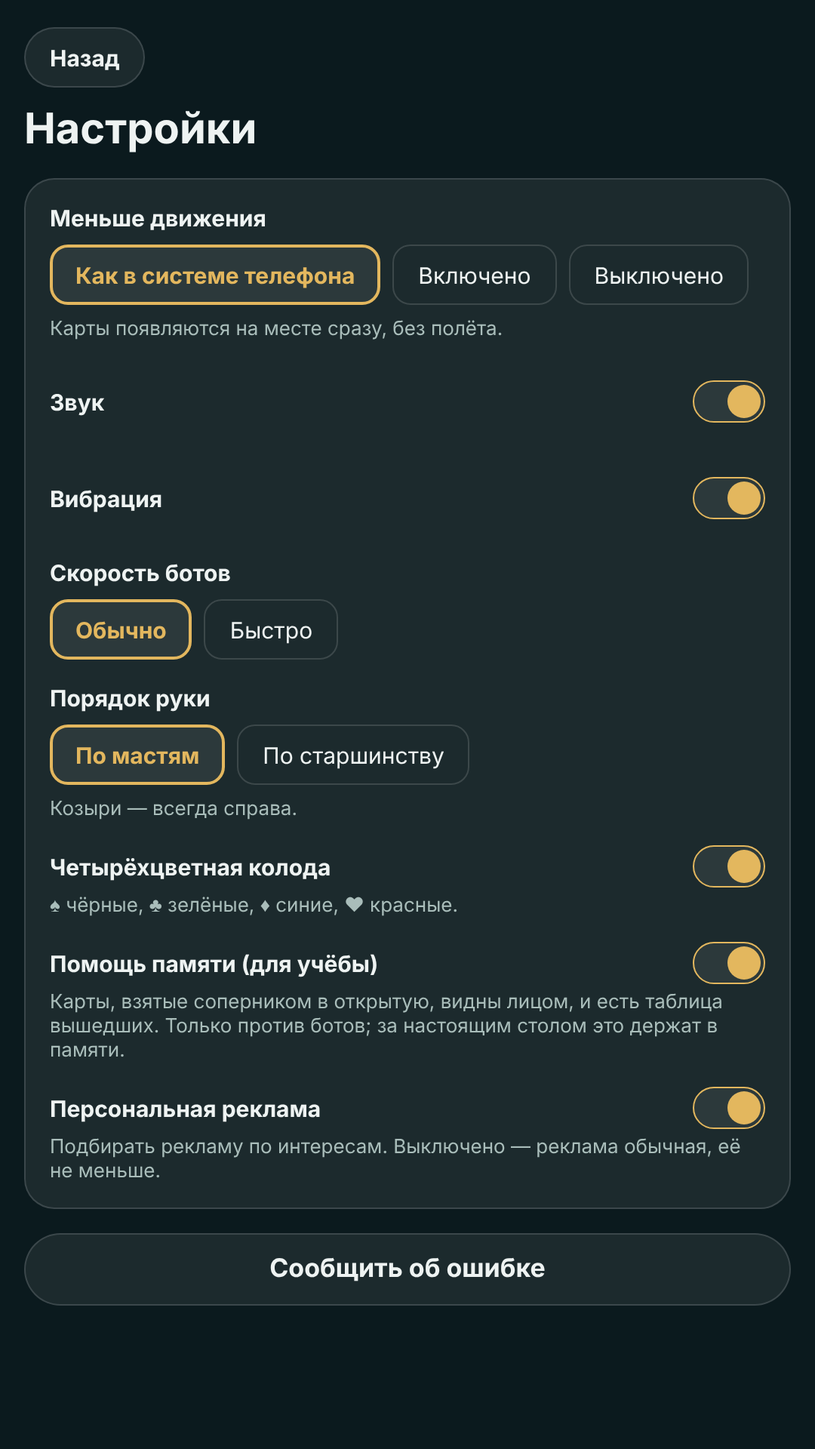
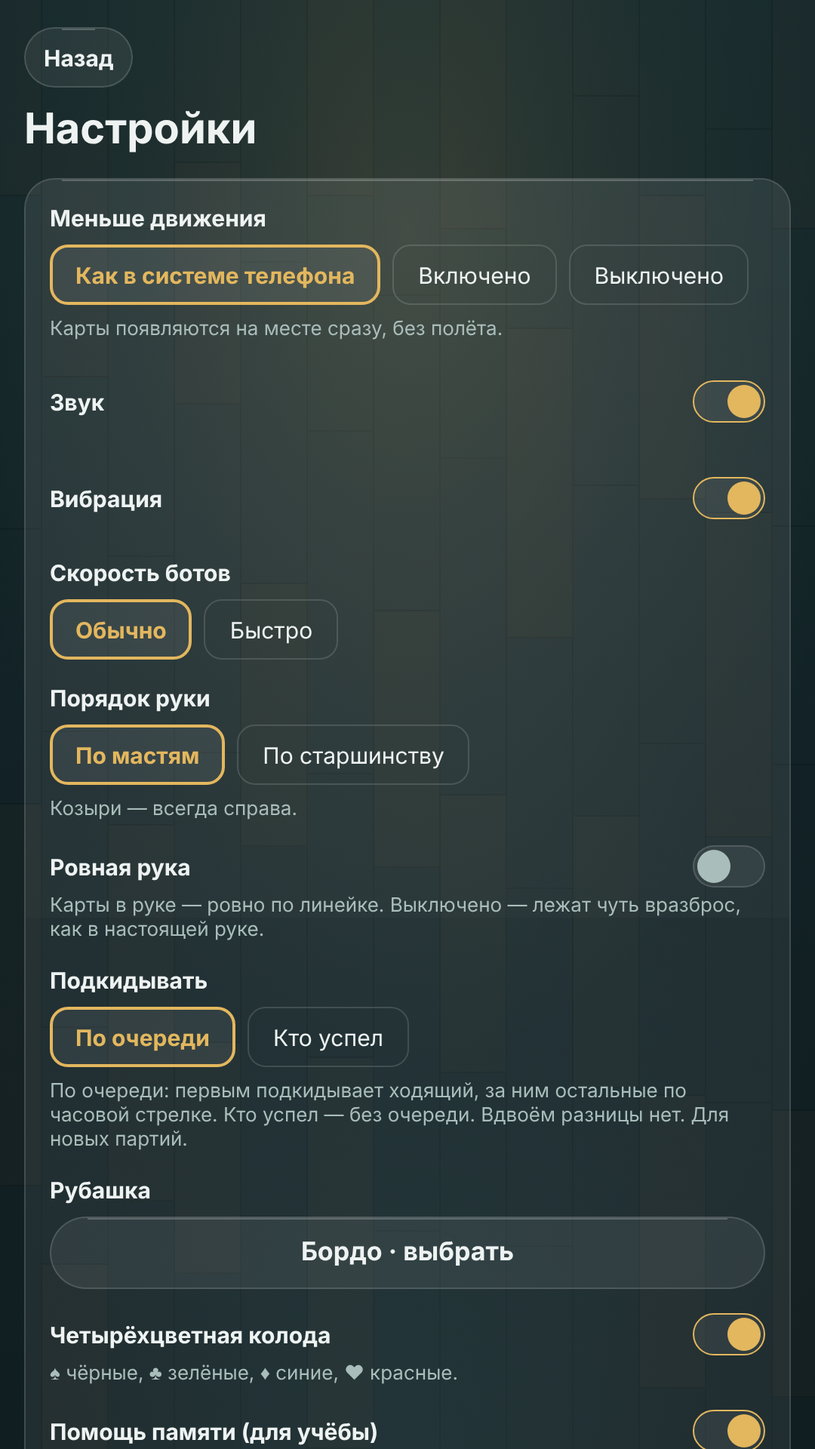
Третий круг вида: документы, листы «до — после», снимки магазина
docs/design/2026-11-art-3/ — листы колоды (обычная и четырёхцветная, с рубашками), стола, комнаты и экрана
«Рубашки», кадры 412 и 360 dp, проходы по лицам. Лист стиля — кадры круга 3 на одобрение владельца.
11-money.md, 04-data-model.md, 06-testing.md, 02-architecture.md, AGENTS.md — как сделаны рубашки и примерка;
store/forms.md — восемь товаров рубашек для консоли RuStore Pay; STATUS.md — что ждёт владельца;
README «Следующая версия» и журнал. Снимки магазина пересняты: на прежних был вид до первого круга.
tools/design/flow.ts — касания с коротким пределом ожидания (прогон зависал на 30-секундных ожиданиях кнопки).

Проверки: typecheck и lint чисто; модульные 310/310; сценарий в браузере 180 ✓; надписи 62 × 2 без обрезки;
проход по виду — 21 снимок, 0 ошибок консоли; онлайн-сценарий 49 ✓.

Claude-Session: https://claude.ai/code/session_013TkbiXwSbkfdZ3SPy1HubC

diff --git a/tools/design/flow.ts b/tools/design/flow.ts
@@ -42,8 +42,9 @@ async function playOne(p: Page): Promise<boolean> {
 
 async function step(p: Page) {
   if (!(await playOne(p))) {
-    if (await visible(p, 'pass')) await p.getByTestId('pass').click().catch(() => {});
-    else if (await visible(p, 'take')) await p.getByTestId('take').click().catch(() => {});
+    // касание — с коротким пределом: кнопка могла пропасть или оказаться под окном, 30 с ждать её незачем
+    if (await visible(p, 'pass')) await p.getByTestId('pass').click({ timeout: 1500 }).catch(() => {});
+    else if (await visible(p, 'take')) await p.getByTestId('take').click({ timeout: 1500 }).catch(() => {});
   }
 }
 

diff --git a/docs/13-art.md b/docs/13-art.md
@@ -18,11 +18,14 @@
 - **Числовые карты (6–10)** — масти в **классической раскладке** (третий круг, 10.11.2026): два столбца и середина,
   верхняя половина прямо, нижняя — вверх ногами, карта одинакова с обеих сторон. 6 — 2 × 3; 7 — шесть и одна между
   верхним и средним рядом; 8 — шесть и две; 9 — 2 × 4 и одна в середине; 10 — 2 × 4 и две. Индекс у нас крупный (для
-  руки и для глаз постарше), поэтому столбцы стоят ближе к середине, чем в бумажной колоде (±0,13 ширины карты), и
-  масть мельче индексной (0,17 ширины; у 9 и 10 — 0,15): ни одна масть поля не касается индекса. На столе при 360 dp
-  (карта 0,67) масть поля — 6 px: это рисунок «сколько», а достоинство читается по индексу.
-- **Туз** — одна крупная масть (0,54 ширины) с тонкой внутренней линией цвета лица — «гравировка», — над и под ней
-  росчерк: линия с ромбиком. Больше ничего.
+  руки и для глаз постарше), поэтому столбцы стоят ближе к середине, чем в бумажной колоде (±0,15 ширины карты), масть
+  поля — 0,19 ширины (у 9 и 10 — 0,165), а масть индекса — мельче (0,17) и вплотную под достоинством. Поле лежит на
+  **плашке** — лёгкой заливке цветом масти (6 %), той же формы, что картуш картинок; индекс стоит на «ярлыке» цвета
+  лица, вырезанном в её углу: масти поля читаются вместе, масть индекса — отдельно, и лишнюю масть к шестёрке никто
+  не прибавит. На столе при 360 dp (карта 0,67) масть поля — 7 px: это рисунок «сколько», достоинство читается по
+  индексу.
+- **Туз** — одна крупная масть (0,48 ширины) в двойном тонком кольце с ромбиками по четырём сторонам; у индексов
+  кольцо уходит под ярлык. Больше ничего.
 - **Картинки (В, Д, К)** — фигур людей нет (ADR 0010). «Двуглавая» карта: рамка-картуш с лёгкой заливкой цветом масти
   (7 %), по середине — перевязь с мастями (у В одна, у Д две, у К три), в верхней половине — **знак**, в нижней — он же
   вверх ногами: у В — **перо**, у Д — **цветок** на стебле с двумя листьями, у К — **корона** о трёх зубцах. Знаки
@@ -105,7 +108,7 @@ Onest (OFL, `assets/fonts/`), 400, 500, 700; без курсива. Шкала (
   прокручиваются.
 - **Проверка.** `tools/e2e/fit.ts` проходит экраны и состояния стола (меню с 1–3 ботами и «Разными уровнями» с самым
   длинным названием уровня, стол на 2–4 места, «Что такое перевод», «Вышедшие», подсказка, итог, разбор, правила,
-  настройки, отчёт, магазин, статистика, задача дня и архив, профиль онлайна; с `--online` — ошибка сервера, «С
+  настройки, отчёт, магазин, рубашки, статистика, задача дня и архив, профиль онлайна; с `--online` — ошибка сервера, «С
   друзьями», сбор стола, выбор места, стол вчетвером с ником в 16 знаков, быстрая игра) на 360 × 740 и 412 × 915,
   шрифтом ×1 и ×1,3, и падает на любой надписи, которая шире или выше своей рамки, уходит за край обрезающего
   родителя, вылезает из своего места, за край экрана или лежит на карте руки.
@@ -135,8 +138,8 @@ Onest (OFL, `assets/fonts/`), 400, 500, 700; без курсива. Шкала (
   поверх прозрачны.
 - **Пол** (третий круг) — то, что видно вокруг стола сверху: **дощатый пол** в тон комнаты. Доски идут от игрока
   вдаль (вертикально), ширина 44 dp, торцы вразбежку (длина доски 150–260 dp, сдвиг по номеру ряда — без случайности:
-  картинка одна и та же при каждом запуске). Доска — `floor`, каждая третья-четвёртая чуть светлее (`floorLight`),
-  между досками — щель `floorSeam` в 1 dp. Пол на 2–3 % яркости отличается от `bg`: текст `text` и `dim` на нём
+  картинка одна и та же при каждом запуске). Доска — тёплый тон `floor` поверх фона, каждая третья-четвёртая чуть светлее (`floorLight`),
+  между досками — щель `floorSeam` в 1 dp. Пол едва отличается от `bg` (контраст доски с фоном меньше 1,25): текст `text` и `dim` на нём
   читается как на фоне (тест `theme.test.ts`), со столом и стеклом он не спорит. Свет лампы и холодный отсвет лежат
   поверх досок, поэтому у лампы доски видны, а к краям тонут. Пол — на всех экранах, где видна комната (он часть
   `Backdrop`), неподвижен, «Меньше движения» ему не нужно. Ковра, плитки и рисунка на полу нет.
@@ -202,7 +205,8 @@ Onest (OFL, `assets/fonts/`), 400, 500, 700; без курсива. Шкала (
 Десять рубашек, все нарисованы кодом (`src/render/backArt.ts`), каталог — `src/render/backs.ts`, цвета — `BACKS` в
 `theme.ts`. Что бесплатно, что продаётся и как примерить — `09-game-design.md`, «Рубашки». Общее у всех: основа
 `base`, скос света бумаги сверху, тень карты, рамка `line` 1,2 px в 7 % ширины от края, узор внутри рамки (обрезан
-по ней). Ни букв, ни знаков студии, ни лиц, ни чужих узоров (атласные, «русский стиль», Bicycle и прочие — нет):
+по ней). Рубашка одинакова в обе стороны: узоры с «верхом» («Хвоя», «Чешуя», «Шеврон», «Масти») рисуются в верхней
+половине и повторяются в нижней поворотом на 180° — по рубашке не узнать, как карта повёрнута. Ни букв, ни знаков студии, ни лиц, ни чужих узоров (атласные, «русский стиль», Bicycle и прочие — нет):
 только геометрия. Рубашек 18+ нет.
 
 | Рубашка | id | Цвета (`base` / `line` / `mark`) | Узор | |
@@ -224,8 +228,9 @@ Onest (OFL, `assets/fonts/`), 400, 500, 700; без курсива. Шкала (
 «Хвоя» светлее сукна и с рамкой — на столе не теряется. Четырёхцветная колода рубашек не касается («Масти» — всегда
 бордо и графит: это узор, а не масти карт).
 
-Экран «Рубашки» — заголовок, полоса сукна с выбранной рубашкой (веер из трёх, колода с козырем, сброс — как за
-столом), плитка 5 × 2 на одном холсте (выбранная — золотая кромка 2 px, просматриваемая — кромка `text`), под ней
+Экран «Рубашки» — заголовок, полоса сукна с просматриваемой рубашкой (веер соперника ×0,55, карта крупно, колода с
+козырем — как за столом), плитка 5 × 2 на одном холсте (выбранная — золотая кромка 2 px, просматриваемая — кромка
+`text`, платная некупленная — замочек в углу), под ней
 стеклянная панель: название (20), состояние одной строкой, кнопки. Золотая кнопка на экране одна — «Купить» у
 просматриваемой платной; «Примерить на одну партию» и «Все рубашки» — стеклом.
 
@@ -241,5 +246,10 @@ Onest (OFL, `assets/fonts/`), 400, 500, 700; без курсива. Шкала (
 | ![Главный экран](design/2026-11-art/frame-title.png) | вход в игру: комната с лампой, знак из карт, золото только у «Играть» (круг 1, одобрен) |
 | ![Стол в середине партии](design/2026-11-art-2/frame-table.png) | переводной вчетвером в разгар отбоя, та же раздача, что в «до»: борт с толщиной, фактура сукна, свет лампы, тени карт, два ряда пар, плашки мест, подсказка |
 | ![Итог партии](design/2026-11-art-2/frame-result.png) | конец партии как событие: строка-герой, золотая линия, ряд мест по порядку выхода, главная ошибка текстом, «Ещё партию» |
+
+Круг 3 (пол, лица, рубашки; ждёт одобрения владельца в PR) — `docs/design/2026-11-art-3/`: листы «до — после»
+`sheet-deck.png` и `sheet-deck-four.png` (все 36 лиц, картинки и туз крупно, десять рубашек картой и веером),
+`sheet-table.png`, `sheet-room.png`, `sheet-backs.png`; кадры — в `after/` (в том числе 360 dp), проходы по лицам —
+`pass-1`, `pass-2`. Эталонные кадры таблицы выше после одобрения заменяются кадрами круга 3 того же сюжета.
 
 Кадры прошлых листов остаются в `docs/design/` как история.

diff --git a/docs/journal/2026-11.md b/docs/journal/2026-11.md
@@ -637,3 +637,38 @@
   вознаграждение «полный разбор этой партии» на итоге не нужна: последняя партия дня и так разбирается полностью,
   за рекламу открываются старые — в статистике, это уже есть. Вторая награда — примерить рубашку на партию — вместе
   с рубашками (третий круг вида).
+
+### 10.11.2026 — третий круг вида: пол, лица карт, десять рубашек, примерка
+
+- Владелец по списку идей: «1–3 согласен» — «фон пола», «10 рубашек», «красивые лица карт»; примерка рубашки на одну
+  партию за рекламу — вторая награда из #59 (вариант 1). Рубашек 18+ нет: это решение после 1.0.0 (ADR 0012).
+- **Спецификация до кода**: `13-art.md` (§1 лица, §5 пол, §11 рубашки) и `09-game-design.md`, «Рубашки».
+- **Лица** (`src/render/faces.ts`): на 6–10 — масти в классической раскладке, верх прямо, низ вверх ногами; туз —
+  масть в двойном кольце; у В, Д, К вместо буквы — знак: перо, цветок, корона (фигур людей по-прежнему нет, ADR 0010).
+  Проходы по снимкам: 1) масть индекса оказалась крупнее мастей поля и вставала с ними в один ряд — у шестёрки читалось
+  «семь»: масть индекса мельче (0,17) и вплотную под достоинством, масти поля крупнее (0,19), перо длиннее и с
+  бородками, кольцо туза двойное; 2) поле мастей положено на плашку цвета масти (6 %), индекс — на «ярлык» в её углу:
+  поле читается вместе, индекс — отдельно. Листы — `docs/design/2026-11-art-3/` (`pass-1`, `pass-2`, `sheet-deck*.png`).
+- **Пол** (`src/ui/floor.ts`, `Backdrop.tsx`): доски от игрока вдаль, торцы вразбежку, без случайности. Первый вариант
+  спорил со стеклом (щели 42 %, доски до 12 %) — стало 20 % и 5–8,5 %: контраст доски с фоном меньше 1,25 (тест).
+- **Рубашки** (`src/render/backs.ts`, `backArt.ts`, цвета — `BACKS` в `theme.ts`): десять, только геометрия, каждая
+  одинакова в обе стороны. Бесплатны «Бордо» (прежняя), «Индиго», «Хвоя»; платные — «Плетёнка», «Лучи», «Иней»,
+  «Чешуя», «Шеврон», «Масти», «Янтарь». «Лучи» и «Шеврон» в первом варианте сливались с сукном — основа светлее (тест
+  контраста основы с сукном и узора с основой). Экран «Рубашки» — из настроек и из магазина.
+- **Деньги** (`src/money/` — путь владельца): товары `theme_<рубашка>` и `themes_all`, как оформления «Нард»; права
+  `backs`, `backsAll`; «Про» рубашек не даёт. Примерка — `watchToTryOn` только с экрана «Рубашки», награда по событию
+  SDK, счётчики `afterShown(…, 'rewarded')`, правило `canTryOn`: не пока примерка ждёт или идёт и не раньше 4 минут
+  после любой рекламы. Примерка тратится с первым ходом партии и живёт до её конца (`durak.tryon`). Сервер о
+  рубашках не знает; соперник видит карты в своей.
+- Попутно в прогонах: `tools/design/flow.ts` на `main` падал на выходе из стола вчетвером (партия успевала кончиться,
+  пока искался кадр «середина партии») — выход теперь по тому, что на экране; в `tools/e2e/browser.ts` три ожидания
+  без гонки (кнопка «Отменить», которую бот успевал убрать; холст картинки в окне о переводе; настройка
+  четырёхцветной колоды — по состоянию, а не щелчком).
+- Замер на телефоне не делался: у агента телефона нет. Лица и рубашки — те же картинки, записанные один раз
+  (`SkPicture`), на кадр стол по-прежнему только ставит их на места; пол — неподвижные прямоугольники SVG под экраном.
+  Версия с этой графикой выходит после замера владельца (ADR устава 0023, правило 5).
+- Проверки на итоговой сборке: `npm run typecheck`, `npm run lint` — чисто; `bun test tools/test` — 310/310 (31 файл);
+  `tools/e2e/browser.ts` — 180 ✓ (было 159: раздел «Рубашки и примерка за рекламу»); `tools/e2e/fit.ts` — 62 состояния
+  × 2 шрифта на 360 × 740 и 412 × 915, ни одной обрезанной надписи; `tools/design/flow.ts` — 21 снимок, ошибок
+  консоли 0 (кадр «середина партии вдвоём» `06-table-mid` с закреплённой колодой не ловится — как и на `main`);
+  `tools/e2e/online.ts` на сборке с сервером — 49 ✓. Снимки магазина пересняты (`tools/store/shots.ts`).

diff --git a/docs/11-money.md b/docs/11-money.md
@@ -19,8 +19,9 @@
 ## RuStore
 
 - Идентификатор `games.gornitsa.durak` и ключ подписи — навсегда (устав, ADR 0006); подтверждает владелец.
-- Товары RuStore Pay заводит владелец в консоли: `no_ads`, `pro_month`, `pro_year` — как у «Нард», идентификаторы
-  навсегда (`src/money/types.ts`). Цены — в консоли; таблица в `09-game-design.md` правится вместе с ними. Какие
+- Товары RuStore Pay заводит владелец в консоли: `no_ads`, `pro_month`, `pro_year` и оформления (рубашки) —
+  `themes_all` и по одному `theme_<рубашка>` на каждую платную — как у «Нард», идентификаторы навсегда
+  (`src/money/types.ts`). Цены — в консоли; таблица в `09-game-design.md` правится вместе с ними. Какие
   товары и когда заводить — `store/forms.md`, «Товары».
 - Возрастная метка — **12+** как гипотеза: карточная игра без денег, онлайн с 14 лет по уставу. Проверить по
   анкете RuStore при заведении карточки.
@@ -33,7 +34,7 @@ Yandex Mobile Ads, как в «Нардах»; правила частоты —
 
 ## Как сделано (этап Е, 08.11.2026)
 
-- `src/money/` — копия модуля «Нард» (nardy @ 1d2bdff) без оформлений: порты `types.ts`, `canShowInterstitial` и
+- `src/money/` — копия модуля «Нард» (nardy @ 1d2bdff); оформления — с третьего круга вида (ниже): порты `types.ts`, `canShowInterstitial` и
   счётчики `ads.ts`, права `rights.ts` (`reviewAccess` — единственное место, где решается, что открыто в разборе),
   Yandex Mobile Ads 8.6.0 `adsSdk.ts`, RuStore Pay из `@gornitsa/kit` v1.1.0 `billing.ts`, `rustoreRules.ts`, оценка
   RuStore `review.ts` и свой модуль `modules/rustore-review`; в браузере — подделки `*.web.ts` для прогонов.
@@ -51,6 +52,22 @@ Yandex Mobile Ads, как в «Нардах»; правила частоты —
   выпущенных сборок.
 - Номер приложения RuStore и номера рекламных блоков — переменные сборки владельца (`store/README.md`): без них
   покупки «подключаются», а реклама — демонстрационная.
+
+## Рубашки и примерка (третий круг вида, 10.11.2026)
+
+Что видит игрок — `09-game-design.md`, «Рубашки»; как нарисованы — `13-art.md`, §11.
+
+- Оформление «Козыря» — рубашка. Каталог — `src/render/backs.ts` (десять, три бесплатны); товары — как оформления
+  «Нард»: `theme_<рубашка>` и `themes_all` (`types.ts`), права `backs` и `backsAll` (`rights.ts`, `backOwned`), ответ
+  RuStore — `ownedOf` (`rustoreRules.ts`), тестовый магазин браузера — `billing.web.ts`. «Про» рубашек не даёт.
+- Какая рубашка на картах — одна чистая функция `backShown` (`src/money/tryon.ts`); экраны зовут `useBack()` из
+  `src/money/index.ts`. Некупленная выбранная (возврат покупки) заменяется на «Бордо».
+- Примерка — реклама за вознаграждение по желанию (#59, вариант 1): `watchToTryOn` — только с экрана «Рубашки»
+  (тест падает на любом другом вызове), награда — только по событию SDK «награда получена», счётчики —
+  `afterShown(…, 'rewarded')`; когда кнопку можно показать — `canTryOn` (`ads.ts`): не пока примерка ждёт партию или
+  идёт и не раньше 4 минут после любой рекламы. Примерка хранится в `durak.tryon`: на какую партию надета (партия
+  с ботами узнаётся по своей колоде, онлайн — по столу и номеру партии) и кончилась ли она.
+- Сервер о рубашках не знает: в протоколе их нет, соперник видит карты в своей рубашке.
 
 ## Персональные данные
 

diff --git a/docs/06-testing.md b/docs/06-testing.md
@@ -38,12 +38,21 @@
 
 ## Деньги (этап Е)
 
-`tools/test/money.test.ts` — копия теста «Нард» без оформлений: каждое правило частоты рекламы и их сочетания,
+`tools/test/money.test.ts` — копия теста «Нард»: каждое правило частоты рекламы и их сочетания,
 «Про» с тремя сутками без сети, что открыто в разборе, ответы RuStore Pay → права и причины, покупка без отметки
 «товар выдан» (и ни одного её вызова в `src/`), оценка RuStore, плагин RuStore Pay в `app.json`; «Про» не на витрине,
 пока нет разбора; права не читает никто, кроме экранов денег. Сценарий в браузере (`tools/e2e/browser.ts`): первые
 партии без рекламы, «Магазин» в тестовом магазине — «Без рекламы» куплена, пережила перезагрузку и «Восстановить
 покупки», «Персональная реклама» в настройках.
+
+Рубашки и примерка (третий круг вида, `09-game-design.md`, «Рубашки») — там же, в `money.test.ts`: десять рубашек и
+их товары, права (`backOwned`; «Про» рубашек не даёт), какая рубашка на столе (`backShown`), примерка на одну партию
+(`wearAt`, `afterTryGame`), когда кнопку можно показать (`canTryOn`), и что примерку зовёт только экран «Рубашки»;
+`theme.test.ts` — пол не спорит с текстом и не меняется от запуска к запуску, узор рубашки виден на основе. Сценарий в
+браузере: бесплатная рубашка выбирается касанием, платная — «Купить» и «Примерить за рекламу»; после подделки
+рекламы (`adsSdk.web.ts`) следующая партия — в примеренной рубашке, продолженная после перезагрузки — в ней же,
+следующая — снова в выбранной; купленная рубашка с четырёхцветной колодой; «Все рубашки». В какой рубашке стол,
+сценарий узнаёт из `globalThis.__kozyrBack` (только веб, `TableCanvas`).
 
 ## 5. Сервер
 

diff --git a/docs/09-game-design.md b/docs/09-game-design.md
@@ -492,9 +492,12 @@
   покупки) молча заменяется на «Бордо».
 - **Примерка** — реклама за вознаграждение, только кнопкой «Примерить на одну партию» на экране «Рубашки»: не
   предлагается сама — ни окном, ни на итоге, ни за столом. Награда — только по событию SDK «награда получена»;
-  закрыл раньше — ничего. Примеренная рубашка надевается на **следующую начатую партию** — с ботами или онлайн — и
-  остаётся до её конца, вместе с экраном итога; партия, продолженная после перезапуска, остаётся в ней. Следующая
-  партия — снова в выбранной. Пока примерка ждёт партию или идёт, вторую взять нельзя. Частота: с прошлого показа
+  закрыл раньше — ничего. Примеренная рубашка надевается на **следующую партию, в которую войдёт игрок**, — новую или
+  продолженную, с ботами или онлайн — и остаётся до её конца (тратится она с первым ходом за столом: стол, с
+  которого ушли, не сыграв ни карты, примерку не съедает), вместе с экраном итога; после перезапуска та же партия
+  остаётся в ней. Следующая
+  партия — снова в выбранной. Пока примерка ждёт партию или партия в ней идёт, вторую взять нельзя; в меню, правилах, разборе и задаче дня
+  рубашка — выбранная. Частота: с прошлого показа
   любой рекламы — не меньше **4 минут** (то же число, что у полноэкранной), и показ примерки отодвигает следующую
   полноэкранную на те же 4 минуты; полноэкранная от примерки чаще не становится. С «Без рекламы» и «Про» примерка
   остаётся: это реклама по желанию. Правило — одна чистая функция `canTryOn` в `src/money/ads.ts`.

diff --git a/AGENTS.md b/AGENTS.md
@@ -121,12 +121,15 @@ This project's own rules:
   another player's hand or the talon order before the reveal; a test checks every route.
 - **No bot, hints, card counting or review during an online game** — for anyone, paid or not (ADR 0006).
 - **Money as nardy** (ADR 0009, `docs/11-money.md`): everything about money lives in `src/money/` (copy of nardy's
-  module without skins); screens call only `src/money/index.ts`; ads only when leaving the result screen, never during
+  module; skins here are card backs — `src/render/backs.ts`, ten of them, three free; products `theme_<back>` and
+  `themes_all`; the rewarded try-on of a paid back for one game is `watchToTryOn`, called only by the «Рубашки» screen); screens call only `src/money/index.ts`; ads only when leaving the result screen, never during
   a game. Never call the RuStore Pay wrapper's `updateAcknowledgementState` (it crashes 11.1.0 after a payment;
   `money.test.ts` fails on any caller). «Про» is on sale only with the review (`PRO_ON_SALE`, stage Д); hints,
   seen cards and undo never read purchase rights.
 - **Portrait only** (ADR 0007).
 - **Own look, not the studio brand book** (ADR 0012, owner's decision): dark table with glass, colours only in
   `src/ui/theme.ts`. Unique card backs «including 18+» are a post-1.0 owner decision (the age rating changes).
-- **Cards are drawn by code** (ADR 0010): own deck with Russian indices (В, Д, К, Т), no copied deck art.
+- **Cards are drawn by code** (ADR 0010): own deck with Russian indices (В, Д, К, Т), no copied deck art — faces in
+  `src/render/faces.ts` (classic pip layouts, emblems instead of people on В, Д, К), backs in `src/render/backArt.ts`
+  (geometry only, colours in `BACKS` of `theme.ts`, the same picture both ways up), the floor in `src/ui/floor.ts`.
 - `applicationId` is `games.gornitsa.durak` — eternal (charter ADR 0006); confirmed by the owner (#1). In the game the app is «Козырь».

diff --git a/README.md b/README.md
@@ -31,6 +31,16 @@
 
 ### Следующая версия
 
+- Карты стали красивее: на 6–10 масти лежат как в настоящей колоде — по числу достоинства, сверху прямо, снизу
+  вверх ногами; у туза — крупная масть в кольце; у валета, дамы и короля — свои знаки: перо, цветок и корона.
+  Индексы в углах — прежние, крупные.
+- Десять рубашек вместо одной: «Настройки» → «Рубашка» или «Магазин» → «Рубашки». Три бесплатны всегда («Бордо»,
+  «Индиго», «Хвоя»), семь можно купить навсегда — по одной или все сразу. Рубашка — только вид карт на вашем
+  телефоне: на игру она не влияет, соперники её не видят.
+- Платную рубашку можно примерить на одну партию за короткую рекламу — только по кнопке «Примерить за рекламу»,
+  сама игра этого не предлагает.
+- В комнате появился пол: вокруг стола — тёмные доски, спокойные и неподвижные.
+
 - Реклама (решение по #59): после межпартийной рекламы на итоге следующей партии — одна спокойная строка «Без
   рекламы — разовая покупка навсегда», не чаще раза за запуск и только если «Без рекламы» ещё не куплена. Реклама
   не стала чаще.

diff --git a/docs/02-architecture.md b/docs/02-architecture.md
@@ -180,8 +180,9 @@ SDK из зависимостей убран, чтобы APK не нёс его 
 
 ### Этап Б, 08.11.2026
 
-- `src/render/` — `faces.ts` (36 лиц и рубашка кодом в `SkPicture`: индекс В, Д, К, Т, масть — путь, у В, Д, К —
-  буква в рамке с мастями; четырёхцветная колода), `layout.ts` (раскладка, выше), `TableCanvas.tsx` (холст,
+- `src/render/` — `faces.ts` (36 лиц кодом в `SkPicture`: индекс В, Д, К, Т, масти поля в классической раскладке, у
+  В, Д, К — знак и перевязь с мастями; четырёхцветная колода), `backs.ts` и `backArt.ts` (каталог и рисунок десяти
+  рубашек — третий круг вида), `paper.ts` (общее: путь масти, тень, запись картинки), `layout.ts` (раскладка, выше), `TableCanvas.tsx` (холст,
   полёт, раздача, касания, перетаскивание). Прежний `PlayingCard.tsx` остался для меню (две рубашки).
 - `src/game/GameScreen.tsx` — партия как запись (`GameRecord`): каждое действие — в запись и в хранилище;
   «Ещё партию» — новая колода; «Отменить» — своё последнее действие, пока бот не ответил; «бито» само через

diff --git a/STATUS.md b/STATUS.md
@@ -35,6 +35,9 @@
   после сверки) — до заморозки золотых тестов;
 - послушать звуки стола на телефоне (тасовка, шлепок, «бито», «беру»; `assets/sounds/SOURCES.md`): громкость и выбор
   записей — на слух владельца;
+- третий круг вида (пол, лица карт, десять рубашек, примерка за рекламу — в «Следующей версии» README): одобрить
+  вид по листам `docs/design/2026-11-art-3/`; товары рубашек в RuStore Pay — `themes_all` 299 ₽ и семь
+  `theme_<рубашка>` по 99 ₽ (`store/forms.md`, «Товары»); замер кадра на телефоне до выпуска версии с этой графикой;
 - проверка «Козыря» в ФИПС (классы 9 и 41);
 - карточка в RuStore (`store/README.md`): ролик — `bun tools/store/video.ts`, загрузить на видеохостинг и вписать ссылку; товары `no_ads` 249 ₽, `pro_month` 199 ₽ и `pro_year` 990 ₽ в RuStore Pay; переменные сборки
   `EXPO_PUBLIC_RUSTORE_APP_ID`, `EXPO_PUBLIC_YANDEX_ADS_INTERSTITIAL`, `EXPO_PUBLIC_YANDEX_ADS_REWARDED`;

diff --git a/store/forms.md b/store/forms.md
@@ -36,6 +36,12 @@
 | `no_ads` | разовая покупка, не расходуется | 249 ₽ | к первой подаче |
 | `pro_month` | подписка на месяц | 199 ₽ | вместе с разбором (этап Д) |
 | `pro_year` | подписка на год | 990 ₽ | вместе с разбором (этап Д) |
+| `themes_all` | разовая покупка, не расходуется | 299 ₽ | с версией, где появились рубашки (третий круг вида) |
+| `theme_weave`, `theme_rays`, `theme_frost`, `theme_scales`, `theme_chevron`, `theme_suits`, `theme_amber` | разовая покупка, не расходуется — семь товаров | 99 ₽ каждый | там же |
+
+Названия для консоли: «Все рубашки» и «Рубашка „Плетёнка“», «…„Лучи“», «…„Иней“», «…„Чешуя“», «…„Шеврон“», «…„Масти“»,
+«…„Янтарь“» (`T.backs.names`). Пока товара в консоли нет, его кнопка «Купить» стоит без цены и оплата не пройдёт —
+бесплатные рубашки и примерка работают и без товаров.
 
 ## Разрешения Android
 
